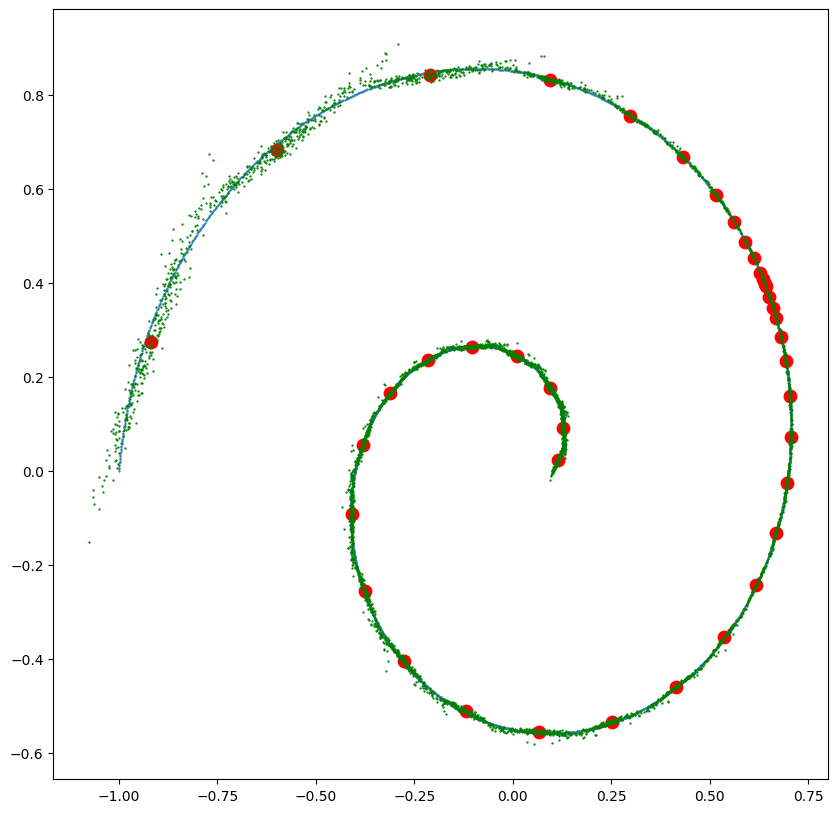
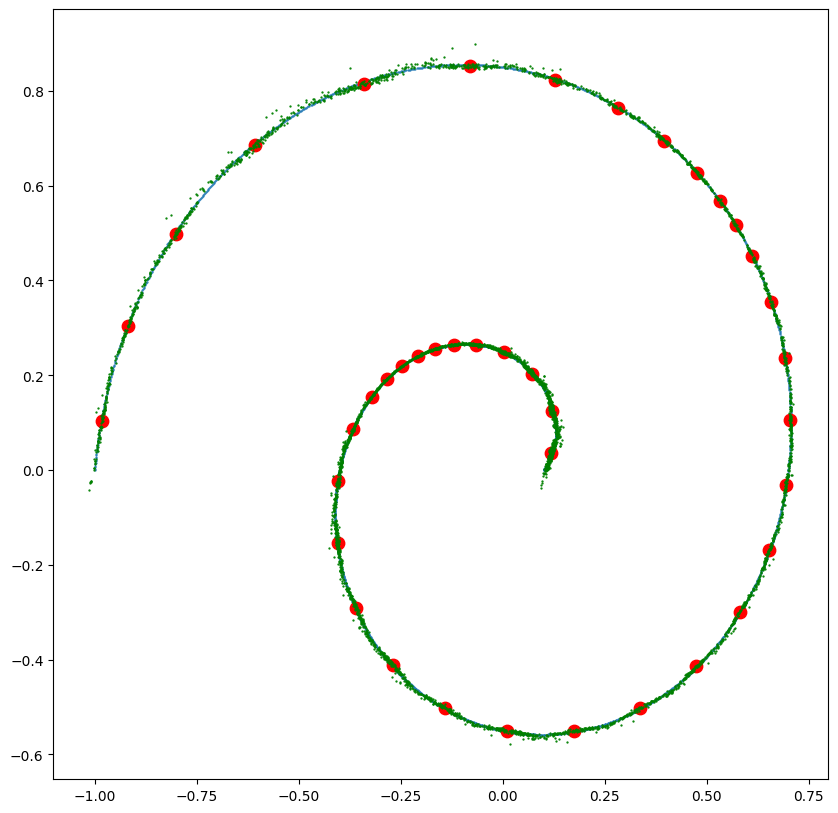
redo the experiment

diff --git a/src/train.py b/src/train.py
@@ -70,40 +70,40 @@ def variational_autoencoder(pts, iterations=20):
     b, d = pts.shape
     device = pts.device
     q_net = nn.Sequential(
-        nn.Linear(d, 256),
-        nn.LayerNorm(256),
+        nn.Linear(d, 512),
+        nn.LayerNorm(512),
         nn.ReLU(),
-        nn.Linear(256, 256),
-        nn.LayerNorm(256),
+        nn.Linear(512, 512),
+        nn.LayerNorm(512),
         nn.ReLU(),
-        nn.Linear(256, 256),
-        nn.LayerNorm(256),
+        nn.Linear(512, 512),
+        nn.LayerNorm(512),
         nn.ReLU(),
-        nn.Linear(256, 256),
-        nn.LayerNorm(256),
+        nn.Linear(512, 512),
+        nn.LayerNorm(512),
         nn.ReLU(),
-        nn.Linear(256, 256),
-        nn.LayerNorm(256),
+        nn.Linear(512, 512),
+        nn.LayerNorm(512),
         nn.ReLU(),
-        nn.Linear(256, 2*d),  # d for mean, d for log_std
+        nn.Linear(512, 2*d),  # d for mean, d for log_std
     ).to(device)
     p_net = nn.Sequential(
-        nn.Linear(d, 256),
-        nn.LayerNorm(256),
+        nn.Linear(d, 512),
+        nn.LayerNorm(512),
         nn.ReLU(),
-        nn.Linear(256, 256),
-        nn.LayerNorm(256),
+        nn.Linear(512, 512),
+        nn.LayerNorm(512),
         nn.ReLU(),
-        nn.Linear(256, 256),
-        nn.LayerNorm(256),
+        nn.Linear(512, 512),
+        nn.LayerNorm(512),
         nn.ReLU(),
-        nn.Linear(256, 256),
-        nn.LayerNorm(256),
+        nn.Linear(512, 512),
+        nn.LayerNorm(512),
         nn.ReLU(),
-        nn.Linear(256, 256),
-        nn.LayerNorm(256),
+        nn.Linear(512, 512),
+        nn.LayerNorm(512),
         nn.ReLU(),
-        nn.Linear(256, 2*d),  # d for mean, d for log_std
+        nn.Linear(512, 2*d),  # d for mean, d for log_std
     ).to(device)
     optimizer = torch.optim.Adam([*q_net.parameters(), *p_net.parameters()], lr=1e-4)
 
@@ -113,36 +113,34 @@ def variational_autoencoder(pts, iterations=20):
         mu_sigma = p_net(z)
         mu = mu_sigma[:, :d]
         log_sigma = mu_sigma[:, d:]  # Allow different sigma for each dimension
-        sigma = 0.05 + torch.exp(log_sigma)
+        sigma = 0.01 + torch.exp(log_sigma)
         return torch.distributions.Normal(mu, sigma)
 
     def conditional_q_dist(x):
         mu_sigma = q_net(x)
         mu = mu_sigma[:, :d]
         log_sigma = mu_sigma[:, d:]  # Allow different sigma for each dimension
-        sigma = 0.05 + torch.exp(log_sigma)
+        sigma = 0.01 + torch.exp(log_sigma)
         return torch.distributions.Normal(mu, sigma)
     
     frames = []
     losses = []
     loader = DataLoader(pts, batch_size=256, shuffle=True)
+
+    nz = 200
+    z_visual = prior_dist.sample((nz,)) # for visualization
+
     for iter in tqdm(range(iterations)):
         """
         we need to optimize the variational loss
         L(x) = -E[log p(x | z)] + KL(q(z | x) || p(z))
         """
-        for x in tqdm(loader):
+        for x in loader:
             q_x_dist = conditional_q_dist(x)
             
-            # Sample multiple z for better estimation (using reparameterization trick)
-            z = q_x_dist.rsample()  # Use rsample() instead of sample() for reparameterization
+            z = q_x_dist.rsample()  # rsample() instead of sample() for reparameterization trick
             p_z_dist = conditional_p_dist(z)
             
-            # Current implementation:
-            # L0 = -p_z_dist.log_prob(x).mean()  # This is incorrect
-            # L1 = torch.distributions.kl_divergence(q_x_dist, prior_dist).mean()
-            
-            # Correct ELBO implementation:
             reconstruction_loss = -p_z_dist.log_prob(x).sum(dim=-1).mean()
             kl_loss = torch.distributions.kl_divergence(q_x_dist, prior_dist).mean()
             beta = 1.0  # Can be adjusted
@@ -171,9 +169,7 @@ def variational_autoencoder(pts, iterations=20):
         plt.title('KL Loss')
         show_plot(f"vae_loss")
 
-        nz = 100
-        z = prior_dist.sample((nz,))
-        p_z_dist = conditional_p_dist(z)
+        p_z_dist = conditional_p_dist(z_visual)
         gmm_plot(pts, p_z_dist, torch.ones(nz) / nz)
         show_plot("vae_reconstruction")
         frames.append(read_plot(f"vae_reconstruction"))
